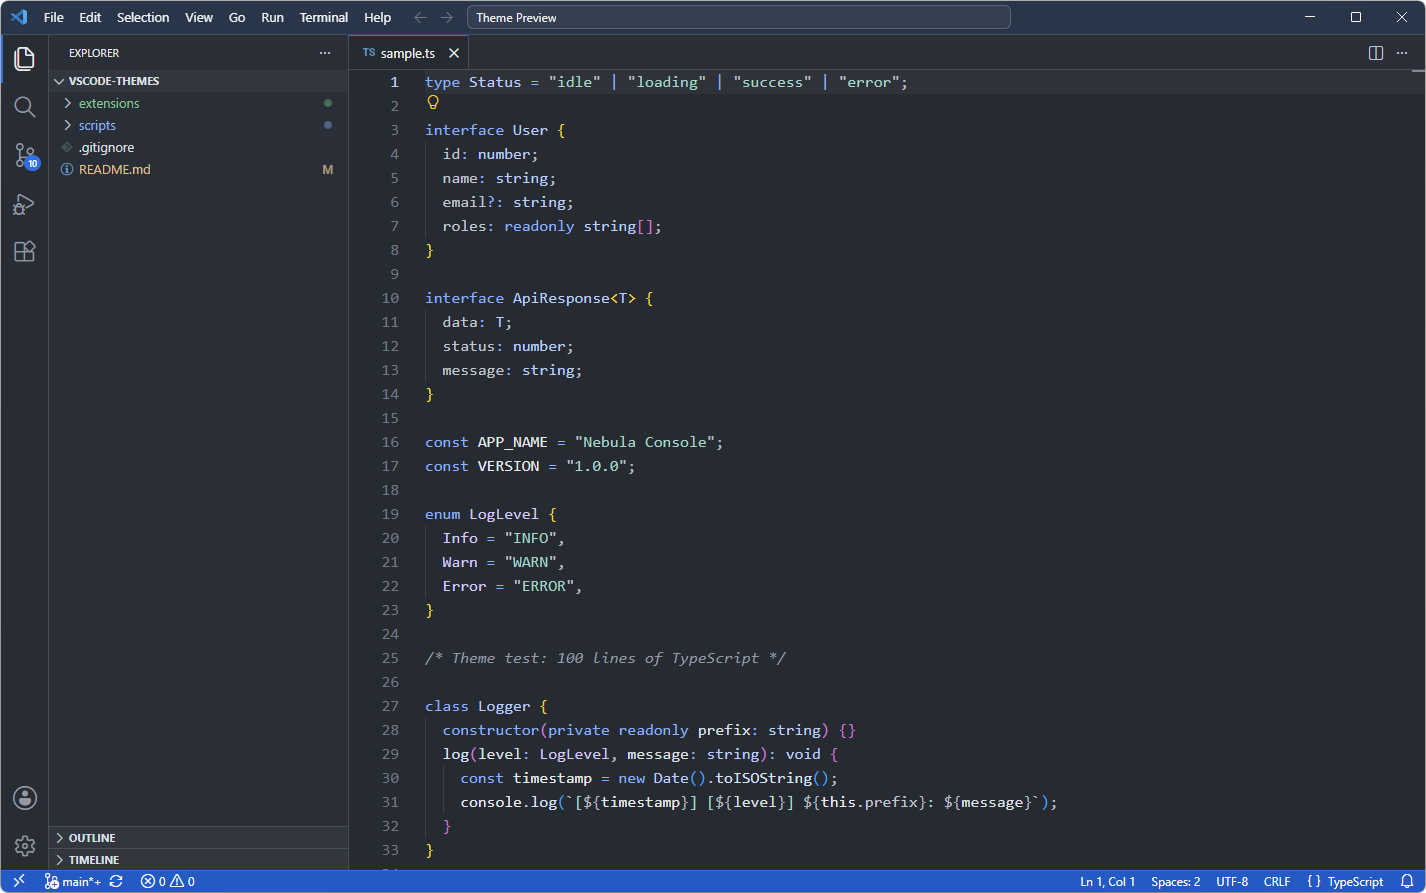
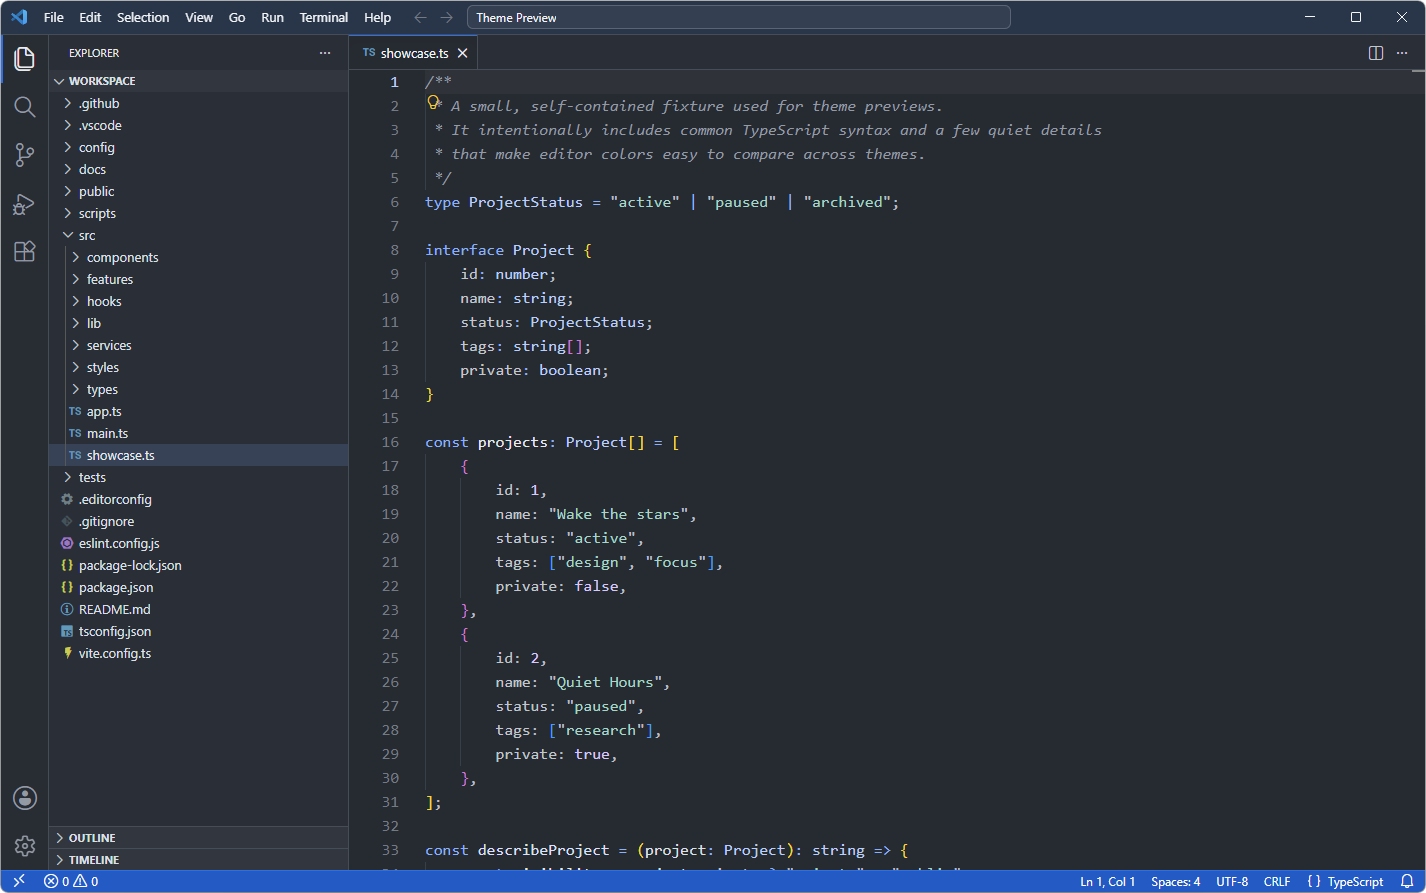
Improve theme preview capture workflow :)

diff --git a/scripts/README.md b/scripts/README.md
@@ -11,9 +11,30 @@ Generates consistent screenshots for every VS Code theme in this repository.
 ## Usage
 
 ```powershell
-powershell -ExecutionPolicy Bypass -File .\scripts\capture-theme-previews.ps1 `
-  -PreviewFile "C:\path\to\sample.ts" `
-  -Workspace "C:\path\to\vscode-themes"
+powershell -ExecutionPolicy Bypass -File .\scripts\capture-theme-previews.ps1
 ```
 
 Previews are saved to each extension’s `images/previews/` directory.
+
+Each capture uses a temporary mock workspace with a realistic project tree.
+The script generates a TypeScript showcase at `src/showcase.ts`; the
+surrounding files are intentionally empty so the Explorer looks like a project
+without exposing this repository’s files or Git branch.
+
+When run normally, the script discovers all registered themes and prompts you
+to choose one. Select **All** to capture every theme. Use `-All` to skip the
+prompt and capture every theme directly:
+
+```powershell
+powershell -ExecutionPolicy Bypass -File .\scripts\capture-theme-previews.ps1 -All
+```
+
+Use `-MissingOnly` to capture only themes whose expected preview PNG does not
+exist yet:
+
+```powershell
+powershell -ExecutionPolicy Bypass -File .\scripts\capture-theme-previews.ps1 -MissingOnly
+```
+
+Use `-DiscoverOnly` to list discovered themes without opening VS Code or
+capturing files.

diff --git a/README.md b/README.md
@@ -41,6 +41,22 @@ A gentle light theme featuring warm paper surfaces, grounded brown text, and res
 
 [\[View Mindful Themes ►\]](extensions/mindful)
 
+### Mauve Method Themes
+
+A thoughtful theme family built around mauve tones and focused contrast.
+
+#### Mauve Method Mist
+
+A light theme built around soft mauve surfaces and focused contrast.
+![Mauve Method Mist](extensions/mauve-method/images/previews/mist.png)
+
+#### Mauve Method Smoke
+
+A dark theme built around deep mauve surfaces and restrained contrast.
+![Mauve Method Smoke](extensions/mauve-method/images/previews/smoke.png)
+
+[\[View Mauve Method Themes ►\]](extensions/mauve-method)
+
 ## Theme features
 
 Each theme includes:
